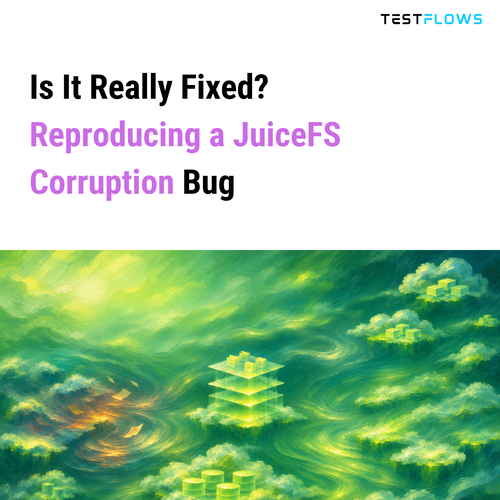
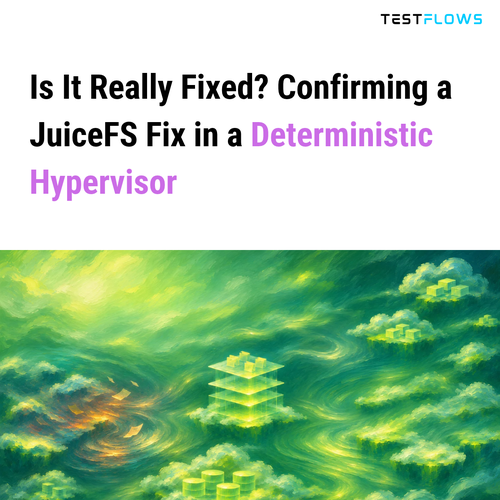
blog: JuiceFS post retitled to the fix; Introducing without the swipes
JuiceFS: Is It Really Fixed? Confirming a JuiceFS Fix in a Deterministic
Hypervisor, with a new description, cover and card, and a note that the
bug needs a volume formatted with zstd, which is not the default. The
agent index and the old address's redirect page carry the new title.

Introducing: no line about breaking a budget for existing systems, and no
contrast with waiting for fuzzers.

Changed region(s): [[0.06, 0.24, 0.87, 0.42], [0.54, 0.15, 0.9, 0.21]]

diff --git a/source/_md/blog.md b/source/_md/blog.md
@@ -11,7 +11,7 @@ In the articles, `{% testflows %}` stands for TestFlows, `{% katex %}` and `{% e
 - [So We Did Write a Deterministic Hypervisor](https://testflows.com/blog/so-we-did-write-a-deterministic-hypervisor.md): Testing is a walk through a state space. TestFlows Machine gives you and your AI coding agent control of that walk, through the same `machine` CLI: force the bugs you can name in the code, keep the runs a test found, and guide fuzzing with seeds to find the ones nobody named. Self-service, with a free plan, for applications on x86_64 Linux. (2026-11-28)
 - [A Deterministic Hypervisor: How Many vCPUs Can You Run?](https://testflows.com/blog/a-deterministic-hypervisor-how-many-vcpus-can-you-run.md): TestFlows Machine runs machines with up to 64 vCPUs, so the software under test can see a multi-CPU server and still replay exactly. Here is how and what it costs. (2026-11-27)
 - [A Deterministic Hypervisor: Is Execution Really Deterministic?](https://testflows.com/blog/a-deterministic-hypervisor-is-execution-really-deterministic.md): What a deterministic hypervisor records, why a recording belongs to the CPU it was made on, and how TestFlows Machine confirms that a replay reaches the same state. (2026-11-26)
-- [Is It Really Fixed? Reproducing a JuiceFS Corruption Deterministically](https://testflows.com/blog/is-it-really-fixed-reproducing-a-juicefs-corruption-deterministically.md): A JuiceFS bug silently corrupted our data. We reproduced it on the version we ran, replayed it exactly in our deterministic hypervisor, and confirmed the upstream fix ourselves with extra fault injection. (2026-11-25)
+- [Is It Really Fixed? Confirming a JuiceFS Fix in a Deterministic Hypervisor](https://testflows.com/blog/is-it-really-fixed-reproducing-a-juicefs-corruption-deterministically.md): We replayed a JuiceFS bug that once corrupted our data, exactly, in our deterministic hypervisor, and confirmed the upstream fix in 1.4.2 ourselves, with extra fault injection. The bug affects only volumes formatted with zstd compression, which is not the default. (2026-11-25)
 - [Running Jepsen in a Deterministic Hypervisor: A Stale Read That Replays Exactly](https://testflows.com/blog/running-jepsen-in-a-deterministic-hypervisor-a-stale-read-that-replays-exactly.md): We ran an unmodified Jepsen test of etcd inside TestFlows Machine, made it catch stale reads under a partition, and replayed the failing history exactly. (2026-11-24)
 - [Introducing TestFlows Machine: Self-Service Deterministic Simulation Testing Environment](https://testflows.com/blog/introducing-testflows-machine-self-service-deterministic-simulation-testing-environment.md): TestFlows Machine, a self-service deterministic simulation testing environment for developers and AI coding agents: the vision, agent first with the human in the loop, and a missed wakeup forced and fixed. (2026-11-22)
 - [Testing Super Mario Using a Behavior Model Autonomously (Part 2)](https://testflows.com/blog/testing-super-mario-using-a-behavior-model-autonomously-part2.md): An article about autonomous testing of Super Mario using behavior models and evolutionary state space exploration techniques. (2025-10-10)

diff --git a/source/_posts/blog/introducing-testflows-machine-self-service-deterministic-simulation-testing-environment.md b/source/_posts/blog/introducing-testflows-machine-self-service-deterministic-simulation-testing-environment.md
@@ -19,7 +19,7 @@ A self-service deterministic simulation testing (DST) environment for developers
 
 We all see that software development is changing quickly, and AI coding agents now write, test, and debug most, if not all, of the software today. They can investigate a bug, propose a fix, and run the tests, but they still run into the same problem developers do, which is that software doesn't always fail the same way twice. Race conditions, timing issues, and network failures don't become easier to reproduce just because an agent is doing the debugging.
 
-**Our vision is to make deterministic simulation testing a natural part of the modern AI-driven development cycle.** An agent should be able to reproduce a failure, step back through the execution, attach a debugger at the exact point where things went wrong, and try a fix against the same conditions. It should be able to inject faults precisely, compress execution time, and read logs after the fact with retroactive logging, without waiting for fuzzers. And you should be able to do all of that yourself, without having to build or maintain a deterministic hypervisor, or break your engineering budget to get access to systems that already provide this capability.
+**Our vision is to make deterministic simulation testing a natural part of the modern AI-driven development cycle.** An agent should be able to reproduce a failure, step back through the execution, attach a debugger at the exact point where things went wrong, and try a fix against the same conditions. It should be able to inject faults precisely, compress execution time, and read logs after the fact with retroactive logging. And you should be able to do all of that yourself, without having to build or maintain a deterministic execution environment.
 
 With TestFlows Machine, you can start doing that today.
 
@@ -58,7 +58,7 @@ But agent first doesn't mean we want to deliver an AI-driven black box. We want 
 
 ## Name the bug, verify the fix
 
-We believe the most valuable thing you can give an agent is fine-grained control over execution and fast feedback on its fixes. An agent that suspects a race shouldn't have to start hours of fuzzing and hope for the best, as it can hold one thread at the exact line, run the other one through, and see the failure in seconds. It can then apply its fix, run the same interleaving again, and know that the fix holds, which turns a guess into a verified fix.
+We believe the most valuable thing you can give an agent is fine-grained control over execution and fast feedback on its fixes. An agent that suspects a race can hold one thread at the exact line, run the other one through, and see the failure in seconds. It can then apply its fix, run the same interleaving again, and know that the fix holds, which turns a guess into a verified fix.
 
 Fuzzing still matters once the bugs you can name are fixed and you need to search for the ones you can't. Machine supports that today with plans and seeds, and with the Python SDK.
 

diff --git a/source/_posts/blog/is-it-really-fixed-reproducing-a-juicefs-corruption-deterministically.md b/source/_posts/blog/is-it-really-fixed-reproducing-a-juicefs-corruption-deterministically.md
@@ -1,8 +1,8 @@
 ---
 post: true
-title: "Is It Really Fixed? Reproducing a JuiceFS Corruption Deterministically"
-seo_title: "Is It Really Fixed? Reproducing a JuiceFS Corruption Deterministically"
-description: A JuiceFS bug silently corrupted our data. We reproduced it on the version we ran, replayed it exactly in our deterministic hypervisor, and confirmed the upstream fix ourselves with extra fault injection.
+title: "Is It Really Fixed? Confirming a JuiceFS Fix in a Deterministic Hypervisor"
+seo_title: "Is It Really Fixed? Confirming a JuiceFS Fix in a Deterministic Hypervisor"
+description: We replayed a JuiceFS bug that once corrupted our data, exactly, in our deterministic hypervisor, and confirmed the upstream fix in 1.4.2 ourselves, with extra fault injection.
 date: 2026-11-25
 author: Vitaliy Zakaznikov
 keywords: JuiceFS, data corruption, zstd, deterministic simulation testing, DST, record and replay, deterministic hypervisor, RustFS, TestFlows, AI coding agent
@@ -14,6 +14,8 @@ icon: fas fa-glasses pt-5 pb-5
 ---
 
 Back in August, JuiceFS 1.3.1 silently corrupted data in our cloud, and unfortunately we had to stop using it. A few weeks later, after we switched to a different storage solution, someone reported a bug upstream that looked a lot like ours, and the fix shipped in JuiceFS 1.3.4 and 1.4.2. That left us with two questions. Was it really our bug? And is it really fixed? This post is about how we answered both by combining our AI coding agent and [TestFlows Machine](/machine/) to reproduce the corruption on the version we had used, replay it exactly, and then run the same test against the fixed release with added fault injection.<!-- more -->
+
+> Note: the bug affects only volumes formatted with zstd compression (`juicefs format --compress zstd`), which is not the default, and files written in many small appends. A volume formatted with the default, no compression, was never affected.
 
 ## What happened
 

diff --git a/source/blog/is-it-really-fixed-reproducing-a-juicefs-corruption-and-verifying-the-fix/index.md b/source/blog/is-it-really-fixed-reproducing-a-juicefs-corruption-and-verifying-the-fix/index.md
@@ -1,5 +1,5 @@
 ---
-title: "Is It Really Fixed? Reproducing a JuiceFS Corruption Deterministically"
+title: "Is It Really Fixed? Confirming a JuiceFS Fix in a Deterministic Hypervisor"
 description: This post has moved.
 fullwidth: true
 sitemap: false
@@ -13,6 +13,6 @@ permalink: blog/is-it-really-fixed-reproducing-a-juicefs-corruption-and-verifyin
 
 <section class="docs-page">
 <div class="container">
-<p>This post has moved to <a href="/blog/is-it-really-fixed-reproducing-a-juicefs-corruption-deterministically/">Is It Really Fixed? Reproducing a JuiceFS Corruption Deterministically</a>.</p>
+<p>This post has moved to <a href="/blog/is-it-really-fixed-reproducing-a-juicefs-corruption-deterministically/">Is It Really Fixed? Confirming a JuiceFS Fix in a Deterministic Hypervisor</a>.</p>
 </div>
 </section>
